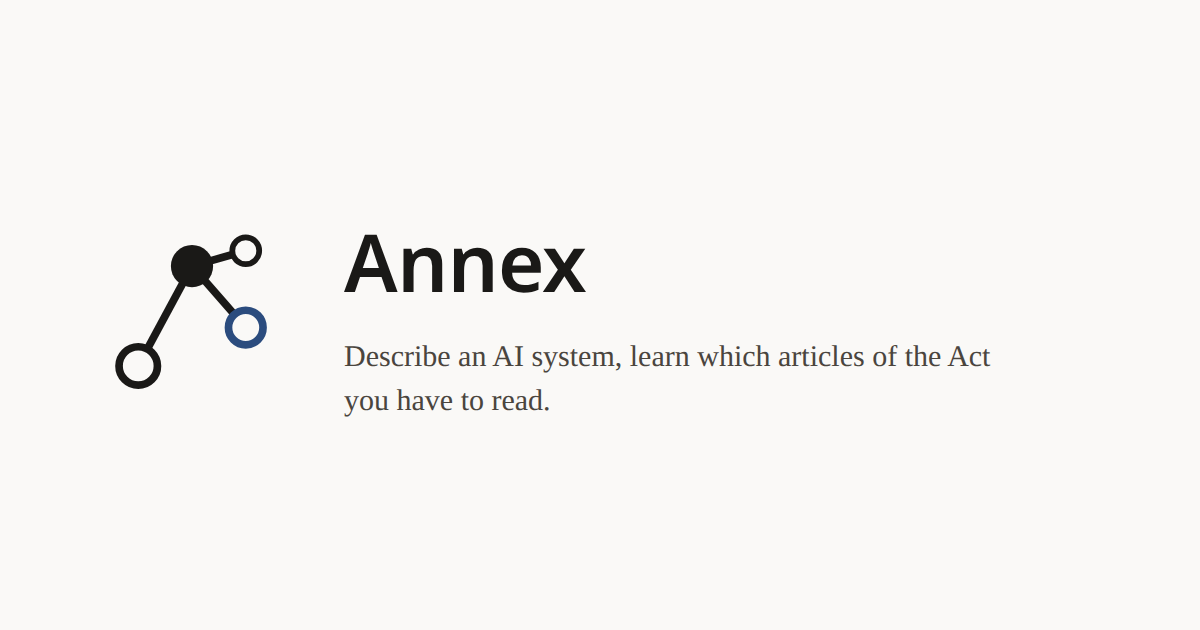
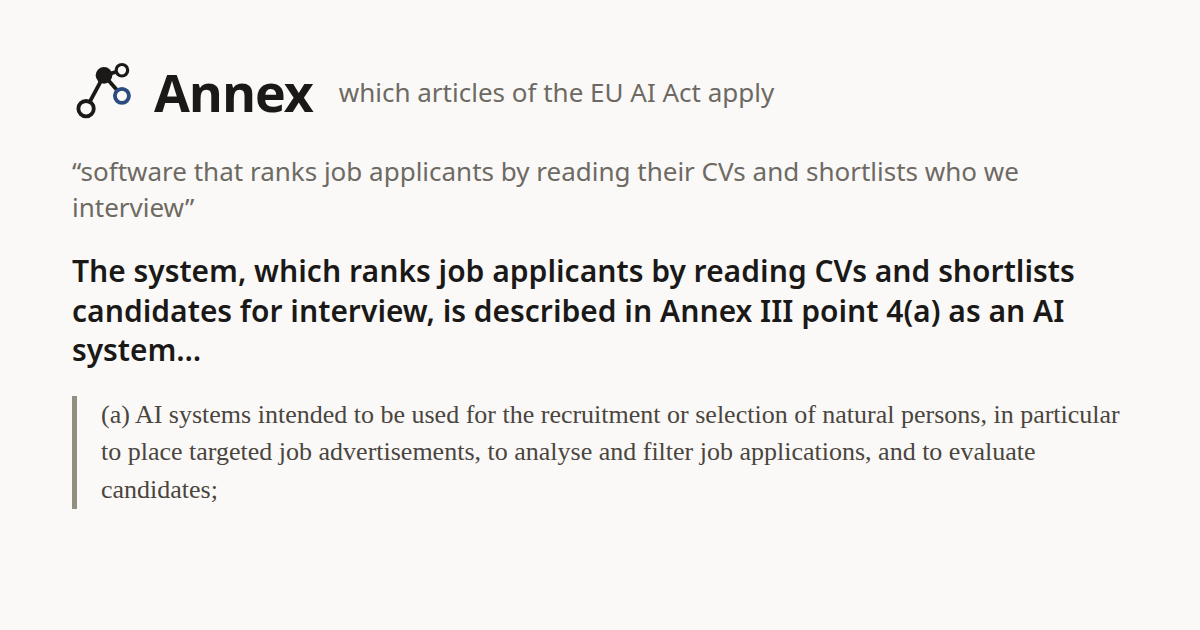
feat(web): ship the generated social cards
The generator shipped on #25 and its output did not, held because
feature-corpus-and-answer-text was about to re-capture every recorded
answer. That branch merged as #28, so this runs
generate-social-card.ts for real: both og-image.png and
og-image-alt.png are committed, and the e2e metadata spec asserts
both resolve over HTTP with a non-zero body.

Claude-Session: https://claude.ai/code/session_01PapR95HCLj5TC1vMzaRMzV

Changed region(s): [[0.0617, 0.3619, 0.925, 0.8143], [0.0617, 0.2413, 0.8633, 0.3619], [0.0617, 0.0905, 0.6475, 0.181]]

diff --git a/web/e2e/metadata.spec.ts b/web/e2e/metadata.spec.ts
@@ -34,5 +34,16 @@ test.describe('the mark and its metadata', () => {
 
     const response = await page.request.get('/og-image.png')
     expect(response.status()).toBe(200)
+    const body = await response.body()
+    expect(body.byteLength).toBeGreaterThan(0)
+  })
+
+  test('serves the alternate card the metadata does not name yet', async ({
+    page,
+  }) => {
+    const response = await page.request.get('/og-image-alt.png')
+    expect(response.status()).toBe(200)
+    const body = await response.body()
+    expect(body.byteLength).toBeGreaterThan(0)
   })
 })

diff --git a/canon/DESIGN.md b/canon/DESIGN.md
@@ -142,4 +142,4 @@ That hardcoding is what O1 in `.canon/review/first-use/operator-pass.md` measure
 
 The pipeline figure that once sat under the three-arm comparison carried a defect of the same shape as O1, measured rather than argued: `web/src/components/pipeline-diagram.tsx` sized its type in SVG viewBox units and scaled the whole figure to the pane's width, so every pixel of width the pane lost shrank the type with it, down to 7.1px at 1280. The rebuilt figure is a vertical rail, one stage a row at full size, matching the layout the operator picked over a plain list and two wrapped rows and the clean line style picked over a hand-drawn one, both recorded under O4 in `.canon/review/first-use/operator-pass.md` and rendered under `.canon/review/evidence/pipeline-figure-layout/` and `pipeline-figure-style/`. Retrieve and Traverse are the two stages the three-arm comparison switches on and off, so their dots draw solid in the accent color against the other three stages' hollow ink-bordered dots, the bracket and its caption read in the accent color too, and the caption that used to sit under the whole figure now reads off that bracket, all read directly off the picked render rather than off its prose summary. Every label and caption is plain HTML text at a fixed pixel size rather than an SVG unit that scales with the viewBox, so it holds an 11px floor at both 1280 and 400, measured off the built page rather than judged by eye. Every stroke and fill reads from the theme, through the theme tokens or `currentColor` the way `traversal-graph.tsx` does, so both themes render from the one source.
 
-The social card is the third mark this section covers, and the only one still partly held back here. Pick 15 chose arm 1: the mark and name, the recorded CV-screening description in quotation marks, its claim quoted exactly and cut at a word boundary, and the Annex III point 4(a) excerpt the claim rests on, smallest text at 26px, 13px at half size. `web/scripts/generate-social-card.ts` renders that arm from `web/src/fixtures/q04-cv-screening.consolidated.json` at build time, quoting rather than typing, so a re-capture that changes the claim changes the card the next time the script runs, and it renders arm 3 alongside it as an alternate named nowhere in the page's metadata. The generator is built and proven to run, but `feature-corpus-and-answer-text` re-captures every recorded answer and that branch has not merged, so this entry ships no generated `og-image.png` or `og-image-alt.png`: committing either now would quote a claim the re-capture is about to replace. `web/public/og-image.png` still ships the mark, the word Annex, and one line of copy on paper, shipped in #13, until that branch merges and `bun run generate:social-card` runs for real.
+The social card is the third mark this section covers, and the hold this entry once carried is over. Pick 15 chose arm 1: the mark and name, the recorded CV-screening description in quotation marks, its claim quoted exactly and cut at a word boundary, and the Annex III point 4(a) excerpt the claim rests on, smallest text at 26px, 13px at half size. `web/scripts/generate-social-card.ts` renders that arm from `web/src/fixtures/q04-cv-screening.consolidated.json` at build time, quoting rather than typing, so a re-capture that changes the claim changes the card the next time the script runs, and it renders arm 3 alongside it as `web/public/og-image-alt.png`, an alternate named nowhere in the page's metadata. `feature-corpus-and-answer-text` merged as `#28`, so `bun run generate:social-card` ran for real against the re-captured fixture: the claim still names Annex III point 4(a), still cites `anx_III`, and the citation still reads `changed: false`, so both cards render the arms the pick chose rather than a placeholder. `web/public/og-image.png` and `web/public/og-image-alt.png` are both committed, at 1200 by 630 and roughly 83 and 89 kilobytes, and `web/e2e/metadata.spec.ts` asserts both resolve over HTTP with a non-zero body. `web/src/app/layout.tsx` still points every consumer at `og-image.png` alone. Nothing automatic keeps either card in step with the next re-capture, and a fixture change that breaks one of the generator's three preconditions fails its own throw rather than the build.
